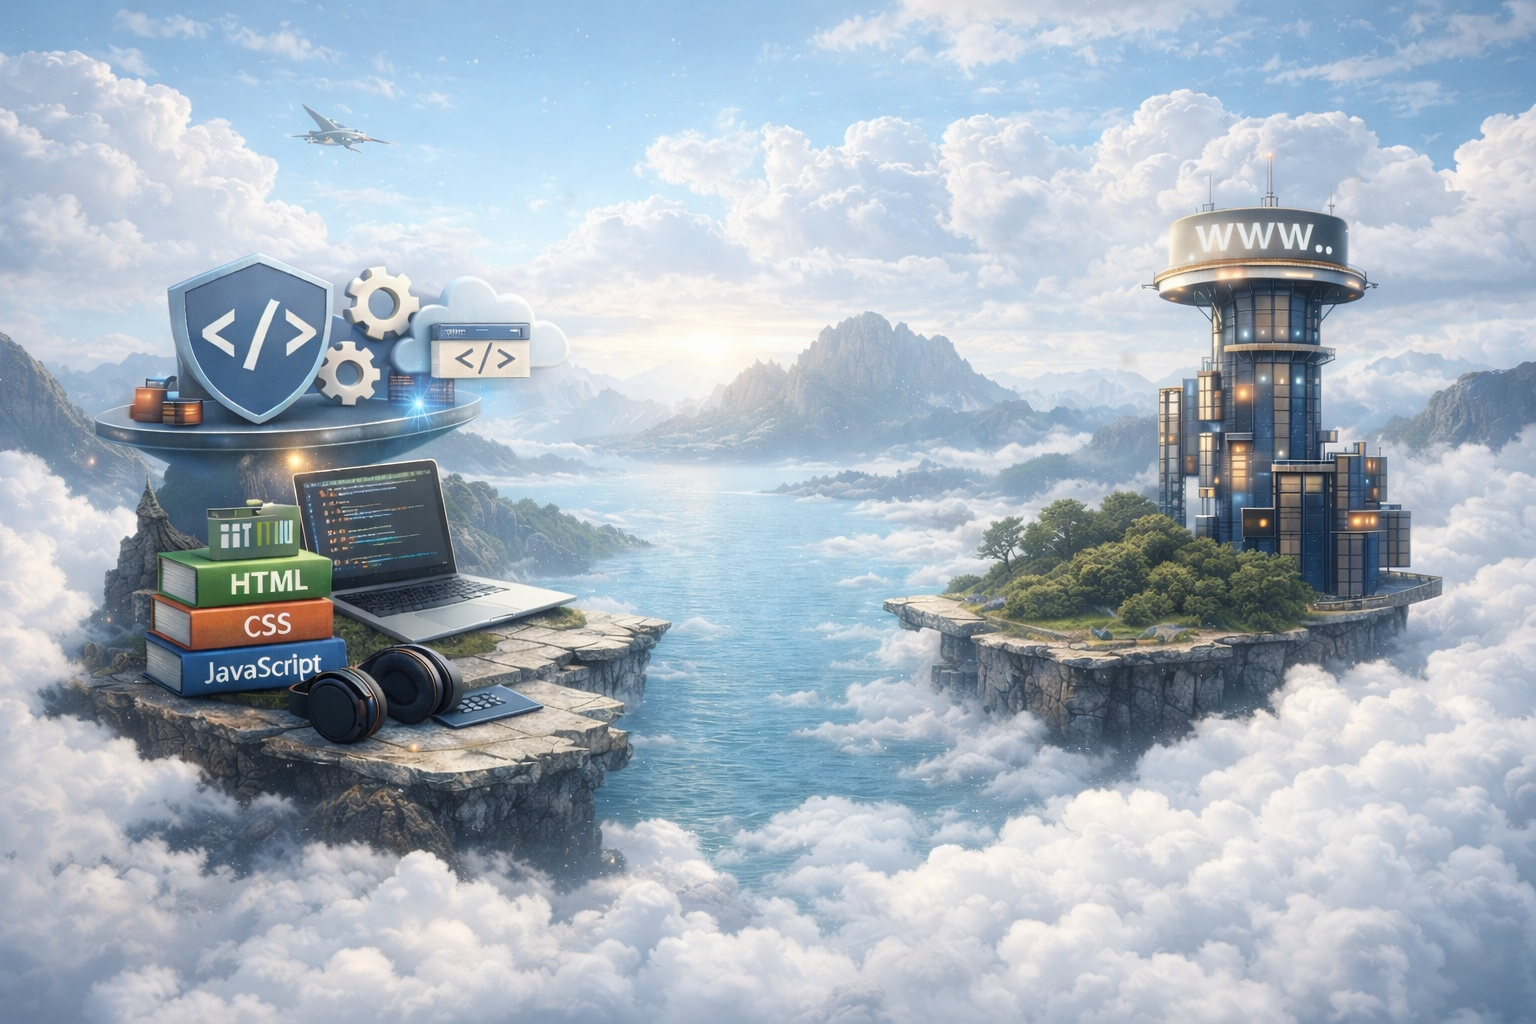
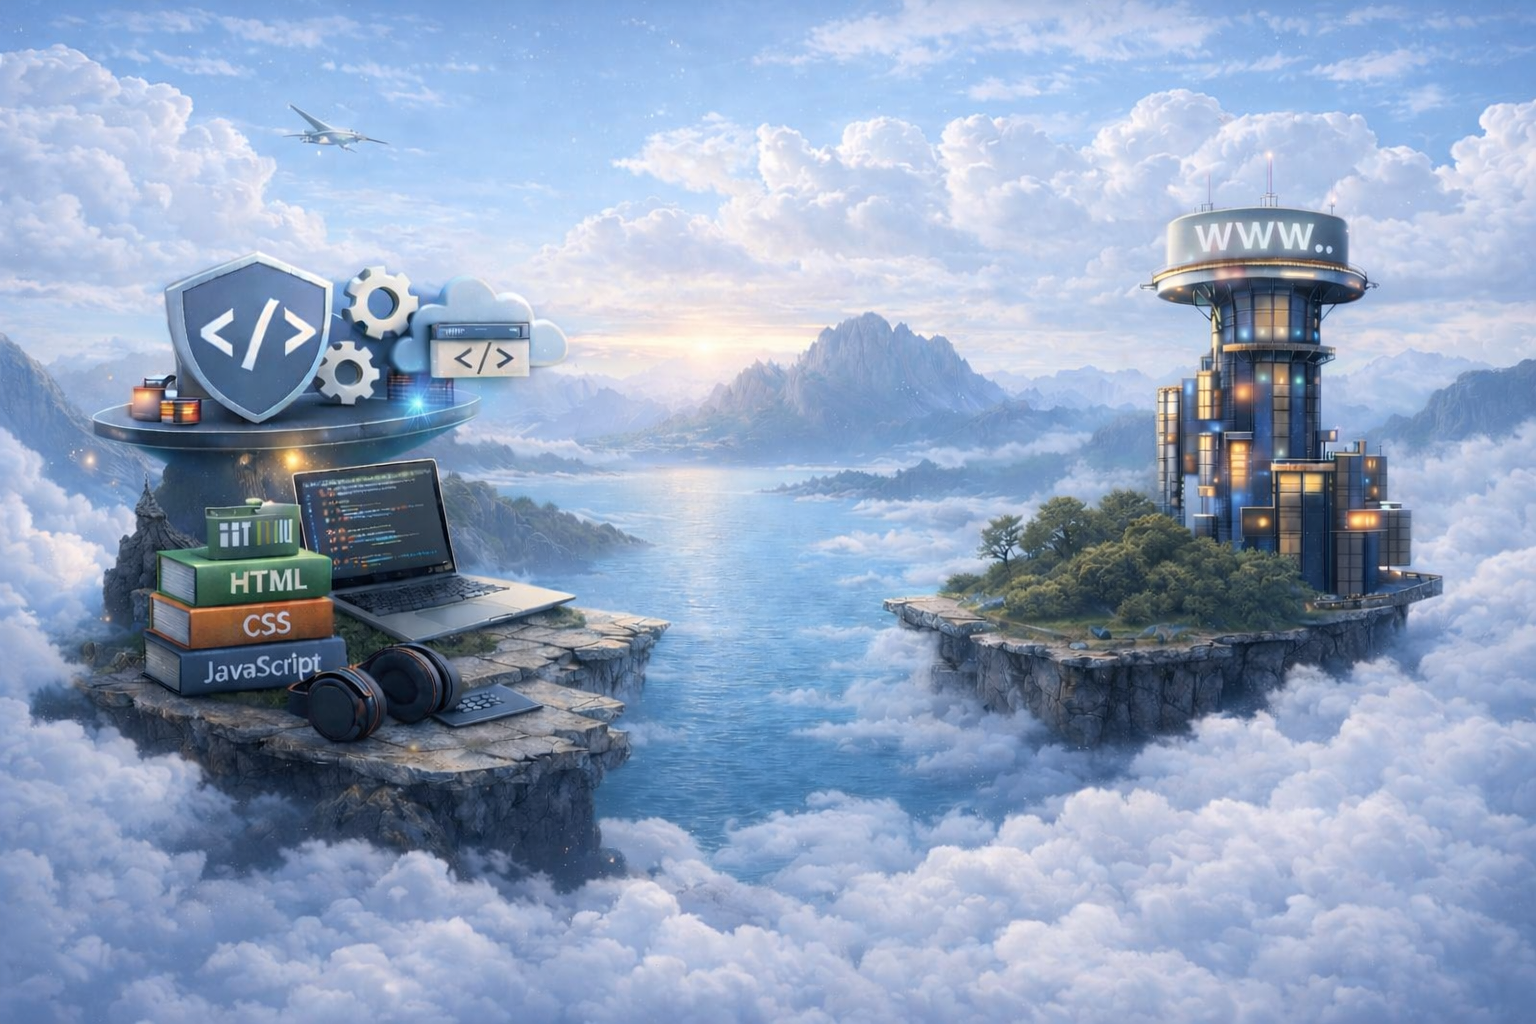
modified card in Contact

diff --git a/src/pages/Contact.tsx b/src/pages/Contact.tsx
@@ -1,50 +1,30 @@
-import { useEffect, useState } from "react";
+import { useState } from "react";
 import { Link } from "react-router";
 import "../styles/Contact.css";
 
+const cards = [
+  { title: "Contact", content: "Mes coordonnées et réseaux" },
+  { title: "Formulaire", content: "M’envoyer un message" },
+  { title: "Calendrier", content: "Planifier un échange" },
+];
+
 function Contact() {
-  /* ===============================
-     CAROUSEL STATE
-  =============================== */
   const [activeIndex, setActiveIndex] = useState(0);
 
-  const cards = [
-    {
-      id: 0,
-      title: "Contact",
-      content: "Mes coordonnées & réseaux",
-    },
-    {
-      id: 1,
-      title: "Formulaire",
-      content: "M’envoyer un message",
-    },
-    {
-      id: 2,
-      title: "Calendrier",
-      content: "Planifier un échange",
-    },
-  ];
+  const prev = () => {
+    setActiveIndex((i) => (i - 1 + cards.length) % cards.length);
+  };
 
-  /* ===============================
-     AUTO ROTATION
-  =============================== */
-  useEffect(() => {
-    const interval = setInterval(() => {
-      setActiveIndex((prev) => (prev + 1) % cards.length);
-    }, 4000);
-
-    return () => clearInterval(interval);
-  }, [cards.length]);
+  const next = () => {
+    setActiveIndex((i) => (i + 1) % cards.length);
+  };
 
   return (
     <main className="contact-page">
-      {/* ================= BACKGROUND ================= */}
-      <div className="contact-bg" aria-hidden />
+      <div className="contact-bg" />
 
-      {/* ================= HEADER ================= */}
       <section className="contact-content">
-        <h1 className="contact-title">Contact</h1>
+        <h1>Contact</h1>
 
         <div className="cv-glass-return">
           <Link to="/" className="cv-glass-link">
@@ -53,32 +33,59 @@ function Contact() {
         </div>
       </section>
 
-      {/* ================= GLASS CAROUSEL ================= */}
+      {/* ===== CAROUSEL ===== */}
       <section className="glass-carousel">
-        <div className="glass-track">
+        <button className="carousel-arrow left" onClick={prev}>
+          ‹
+        </button>
+
+        <div className="carousel-3d">
           {cards.map((card, index) => {
-            const offset = index - activeIndex;
+            const offset = (index - activeIndex + cards.length) % cards.length;
+
+  let transform = "";
+  let zIndex = 1;
+  let opacity = 0.4;
+  let scale = 0.9;
+
+  if (offset === 0) {
+    // 🟡 Carte active (devant)
+    transform = "translateX(0px) translateZ(120px)";
+    zIndex = 3;
+    opacity = 1;
+    scale = 1;
+  } else if (offset === 1) {
+    // 👉 Carte suivante (droite, partiellement visible)
+    transform = "translateX(140px) translateZ(0)";
+    zIndex = 2;
+  } else {
+    // 👈 Carte précédente (gauche, partiellement visible)
+    transform = "translateX(-140px) translateZ(0)";
+    zIndex = 2;
+  }
 
             return (
               <article
-                key={card.id}
-                className="glass-card"
-                style={{
-                  transform: `translateX(${offset * 320}px) scale(${
-                    offset === 0 ? 1 : 0.9
-                  })`,
-                  opacity: offset === 0 ? 1 : 0.55,
-                  zIndex: offset === 0 ? 2 : 1,
-                  pointerEvents: offset === 0 ? "auto" : "none",
-                  transition: "all 0.6s ease",
-                }}
-              >
-                <h2 className="glass-card-title">{card.title}</h2>
-                <p className="glass-card-text">{card.content}</p>
-              </article>
+  key={index}
+  className={`glass-card ${
+    offset === 0 ? "glass-card--active" : "glass-card--back"
+  }`}
+  style={{
+    transform: `${transform} scale(${scale})`,
+    opacity,
+    zIndex,
+  }}
+>
+  <h3>{card.title}</h3>
+  <p>{card.content}</p>
+</article>
             );
           })}
         </div>
+
+        <button className="carousel-arrow right" onClick={next}>
+          ›
+        </button>
       </section>
     </main>
   );

diff --git a/src/styles/Contact.css b/src/styles/Contact.css
@@ -1,19 +1,18 @@
 .contact-page {
   position: relative;
   min-height: 100vh;
-  overflow: hidden;
+  overflow-x: hidden;
+  overflow-y: auto;
 }
 
 /* 🔥 BACKGROUND */
 .contact-bg {
   position: fixed;
   inset: 0;
-
   background-image: url("/contact_portfolio.PNG");
   background-size: cover;
   background-position: center;
   background-repeat: no-repeat;
-filter: brightness(0.88) saturate(0.85);
   z-index: -3;
 }
 
@@ -25,58 +24,118 @@ filter: brightness(0.88) saturate(0.85);
   color: white;
 }
 
-/* CAROUSEL */ 
-.glass-card {
-  width: 280px;
-  height: 360px;
-
-  background: rgba(255, 255, 255, 0.12);
-  backdrop-filter: blur(12px);
-  -webkit-backdrop-filter: blur(12px);
-
-  border-radius: 18px;
-  border: 1px solid rgba(255, 255, 255, 0.25);
-
-  box-shadow:
-    0 30px 80px rgba(0, 0, 0, 0.35);
-
-  display: flex;
-  align-items: center;
-  justify-content: center;
-
-  color: white;
-  font-weight: 600;
-}
+/* ===============================
+   CAROUSEL
+================================ */
 
 .glass-carousel {
   position: relative;
+  margin-top: 4rem;
+
+  /* 🔑 CLÉ : largeur suffisante pour voir les flèches */
   width: 100%;
-  height: 420px;
+  max-width: 900px;
+  height: 340px;
+
+  margin-left: auto;
+  margin-right: auto;
 
   display: flex;
   justify-content: center;
   align-items: center;
 
-  perspective: 1200px; /* 🔑 profondeur 3D */
+  perspective: 1200px;
 }
 
-.glass-track {
+.carousel-3d {
   position: relative;
+  width: 320px;
+  height: 220px;
+
+  transform-style: preserve-3d;
+}
+
+/* CARTES */
+.glass-card {
+  position: absolute;
+  inset: 0;
+  margin: auto;
+
   width: 300px;
-  height: 360px;
+  height: 400px;
+  padding: 24px;
+
+  border-radius: 20px;
+
+  backdrop-filter: blur(16px);
+  -webkit-backdrop-filter: blur(16px);
+
+  box-shadow: 0 20px 50px rgba(0, 0, 0, 0.35);
+  color: black;
+  text-align: center;
+
+  transition: transform 0.7s ease, opacity 0.7s ease;
 }
 
-.glass-card:nth-child(1) {
-  transform: translateX(-320px) scale(0.9);
-  opacity: 0.6;
+.glass-card--active {
+  background: linear-gradient(
+    135deg,
+    rgba(255, 235, 200, 0.55),
+    rgba(255, 210, 150, 0.35)
+  );
+
+  box-shadow:
+    0 25px 60px rgba(0, 0, 0, 0.45),
+    0 0 35px rgba(255, 255, 255, 0.25);
+
+  filter: brightness(1) saturate(1);
 }
 
-.glass-card:nth-child(2) {
-  transform: translateX(0) scale(1);
-  z-index: 2;
+.glass-card--back {
+  background: rgba(255, 255, 180, 0.75); /* plus dense */
+  
+  box-shadow:
+    0 25px 60px rgba(0, 0, 0, 0.45),
+    0 0 35px rgba(255, 255, 255, 0.25);
+
+  filter: brightness(1.5) saturate(1.2) contrast(1.05);
 }
 
-.glass-card:nth-child(3) {
-  transform: translateX(320px) scale(0.9);
-  opacity: 0.6;
+/* ===============================
+   ARROWS (VISIBLES)
+================================ */
+
+.carousel-arrow {
+  position: absolute;
+  top: 50%;
+  transform: translateY(-50%);
+
+  width: 44px;
+  height: 44px;
+  border-radius: 50%;
+
+  background: rgba(255, 255, 255, 0.25);
+  backdrop-filter: blur(8px);
+
+  border: none;
+  cursor: pointer;
+  font-size: 28px;
+  color: white;
+
+  z-index: 20;
+
+  transition: transform 0.2s ease, background 0.3s ease;
+}
+
+.carousel-arrow:hover {
+  background: rgba(255, 255, 255, 0.45);
+  transform: translateY(-50%) scale(1.1);
+}
+
+.carousel-arrow.left {
+  left: 0;
+}
+
+.carousel-arrow.right {
+  right: 0;
 }
